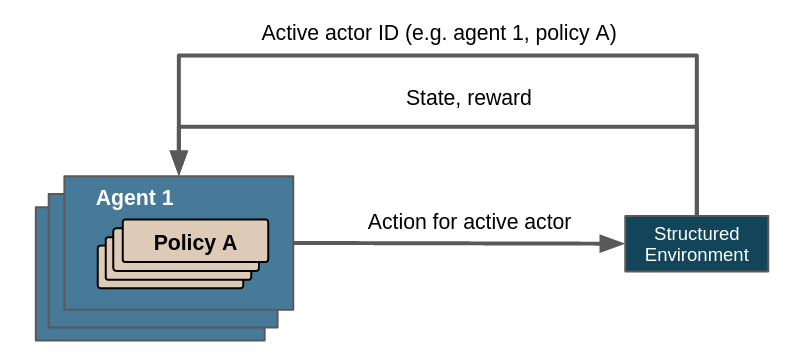
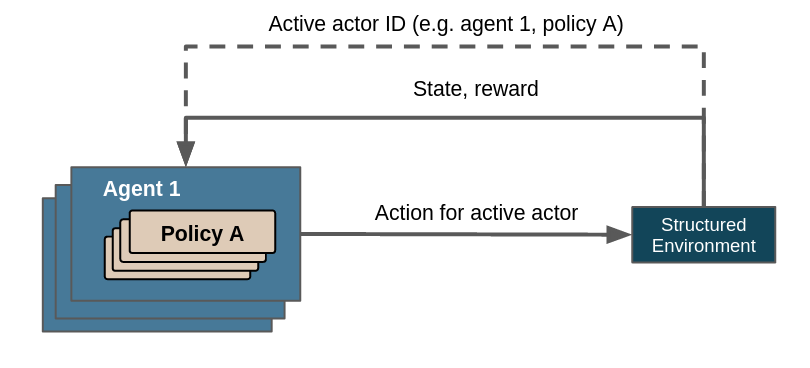
RL-478: Continued with docs on specifications of structured environments.

Changed region(s): [[0.0311, 0.0308, 0.9651, 0.9552]]

diff --git a/docs/source/concepts_and_structure/control_flows_struct_envs.rst b/docs/source/concepts_and_structure/control_flows_struct_envs.rst
@@ -18,9 +18,11 @@ Maze addresses these problems by baking the concept of *actors* into its control
 
 An actor is defined as the combination of a specific policy and a specific agent. They are uniquely identified by the agent ID and the policy key. From a more abstract perspective an actor describes *which task should be done* (via the policy) for *which entity* (the agent). In the case of the vehicle routing problem an agent might correspond to a vehicle and a policy might correspond to a task like "pick an order" or "drive to point X". A :class:`StructuredEnv <maze.core.env.structured_env.StructuredEnv>` has exactly one active actor at any time. There can be an arbitrary number of actors. They can be created and destroyed dynamically by the environment, by respectively specifying their ID or marking them as *done*. Their lifecycles are thus flexible, they don't have to be available through the entirety of the environment's lifecycle.
 
-.. image:: struct_env_control_flow.png
-    :width: 60 %
+.. figure:: struct_env_control_flow.png
+    :width: 75 %
     :align: center
+
+    Overview of control flow with structured environments. Note that the line denoting the communication of the active actor ID is dashed because it is not returned by :meth:`~maze.core.env.maze_env.MazeEnv.step`, but instead queried via :meth:`~maze.core.env.structured_env.StructuredEnv.actor_id`.
 
 **Decoupling actions from steps**
 
@@ -71,9 +73,9 @@ Both approaches aim at increasing the temporal coherence of actions. Multi-stepp
 Where to Go Next
 ----------------
 
-Different specifications of structured environments allow various capabilities not possible with flat environments. We discuss them in a series of articles listed below. Links to examples are included either in those articles or here directly.
+Strutured environments are general enough to give rise to a number of different specifications with different capabilities. We cover those specifications in a series of articles listed below and provide links to implemented examples.
 
-- Flat environments, while instances of :class:`StructuredEnv <maze.core.env.structured_env.StructuredEnv>`, do not utilize its actor mechanism and thus don't warrant an in-depth discussion. Example: :ref:`Stock cutting without multi-stepping.<env_from_scratch-problem>`.
+- :ref:`Flat environments with structured environments<struct_env_flat>`. Example: :ref:`Stock cutting without multi-stepping.<env_from_scratch-problem>`.
 - :ref:`Multi-stepping with structured environments<struct_env_multistep>`. Example: :ref:`Stock cutting with multi-stepping<flat_to_structured>`.
 - :ref:`Multi-agent RL with structure environments<struct_env_multiagent>`. Example: Vehicle routing problem, i.e. the coordination of a fleet of delivery vehicles with different targets [todo].
 - :ref:`Hierarchical RL with structured environments<struct_env_hierarchical>`. Example: Pick and place robots, i.e. a robotic arm picking and placing objects, in the process iterating over a sequence of sub-goals [todo - also: different example prob. better].

diff --git a/docs/source/best_practices_and_tutorials/struct_env_examples/flat/intro.rst b/docs/source/best_practices_and_tutorials/struct_env_examples/flat/intro.rst
@@ -1,0 +1,33 @@
+.. _struct_env_flat:
+
+Flat Environments
+=================
+
+All instantiable environments in Maze are subclasses of :class:`StructuredEnv <maze.core.env.structured_env.StructuredEnv>`. Structured environments are discussed in :ref:`Control Flows with Structured Environments<control_flows_struct_envs>`, which we recommend to read prior to this article. *Flat* environments in our terminology are those utilizing a single actor and a single policy, i. e. a single actor. Within Maze, flat environments are a special case of structured environments.
+
+Let's revisit a classic depiction of a RL control flow first:
+
+.. figure:: ../flat/control_flow_simple.png
+    :width: 75 %
+    :align: center
+
+    Simplified control flow within a flat scenario. The agent selects an action, the environment updates its state and computes the reward. There is no need to distinguish between different policies or agents since we only have one of each. :meth:`~maze.core.env.structured_env.StructuredEnv.actor_id` should always return the same value.
+
+A more general framework however needs to be able to integrate multiple agents and policies into its control flow. Maze does this by implementing actors, which are abstractions introduced in the RL literature to represent the application of one policy on one agent.
+The figure above collapses the concepts of policy, agent and actor into a single entity for the sake of simplicity. The actual control flow in Maze for a flat environment is closer to this:
+
+.. figure:: ../flat/control_flow_complex.png
+    :width: 75 %
+    :align: center
+
+    More accurate control flow for a flat environment in Maze, showing how the actor mechanism integrates agent and policy. Note that the line denoting the communication of the active actor ID is dashed because it is not returned by :meth:`~maze.core.env.maze_env.MazeEnv.step`, but instead queried via :meth:`~maze.core.env.structured_env.StructuredEnv.actor_id`.
+
+A flat environment interacts with a single actor consisting of a single agent and a single policy. The concept of actors is crucial to the flexibility of Maze, since it allows to arbitrarily scale up the number of agents, policies or both - which enables the application of RL to a wider range of use cases and exploit properties of the respective domains more efficiently.
+
+Where to Go Next
+----------------
+
+- :ref:`Multi-stepping applies the actor mechanism to enact several policies in a single step<struct_env_multistep>`.
+- :ref:`Multi-agent RL by using multiple actors with different agents<struct_env_multiagent>`.
+- :ref:`Hierarchical RL by chaining and nesting tasks via policies.<struct_env_hierarchical>`.
+- :ref:`Arbitrary environments with evolutionary strategies<struct_env_evolutionary>` [todo].

diff --git a/docs/source/best_practices_and_tutorials/struct_env_examples/multiagent/intro.rst b/docs/source/best_practices_and_tutorials/struct_env_examples/multiagent/intro.rst
@@ -3,7 +3,18 @@
 Multi-Agent RL with Structured Environments
 ===========================================
 
-The remainder of this tutorial is structured as follows:
+`Multi-agent reinforcment learning (MARL) <https://arxiv.org/abs/1911.10635>`_ describes a setup in which more than several collaborating or competing agents act as individual entitites in an environment. This introduces the additional complexity of emergent effects between those agents. Some problems require to or at least benefit from deviating from a single-agent formulation, such as the `vehicle routing problem <https://en.wikipedia.org/wiki/Vehicle_routing_problem>`_, `(video) games like Starcraft <https://www.nature.com/articles/s41586-019-1724-z>`_, `traffic coordination<http://www.wiomax.com/team/xie/paper/ICAPS12.pdf>`_, `power systems and smart grids<https://ieeexplore.ieee.org/abstract/document/7855760>`_ and many others.
+
+Maze supports multi-agent learning out of the box. In order to make a :class:`StructuredEnv <maze.core.env.structured_env.StructuredEnv>` compatible with such a setup, it needs to keep track of the activities of each individual agent. While the order in which actions for the individual agents are enacted are left to the environment, it is required that at any point in time there is exactly one active actor (see :ref:`here<control_flows_struct_envs>` for more information on the distinction between actor and agent). It is easily possible, but not necessary, to include multiple policies in a multi-agent scenario.
+
+Information on the active actor and therefore agent is accessed via :meth:`~maze.core.env.structured_env.StructuredEnv.actor_id`. As long as the environment implements this method and the internal state of each agent correctly, there are no further prerequisites to be fulfilled for a multi-agent training.
+
+
+
+    Control flow within a multi-agent scenario. Note that we assume a single policy here. In this setup :meth:`~maze.core.env.structured_env.StructuredEnv.actor_id` should return a tuple of the current actor ID and a constant policy key.
+
+You'll notice that the actor entity coordinating policies and agents to compute an appropriate action.
+In comparing with the flat environment you'll notice that this flow differs in (a) that there are multiple agents, (b) that the agent is chosen according to the active actor ID specified by the environment and (c) that the environment's step function has to do keep track on the active agent/actor. The underlying pathways however are identical - within Maze' actor mechanism flat environments are merely a particular specification amongst many.
 
 .. toctree::
    :maxdepth: 1

diff --git a/docs/source/index.rst b/docs/source/index.rst
@@ -177,6 +177,7 @@ but most importantly also provide code snippets and minimum working examples to 
    best_practices_and_tutorials/integrating_gym_environment.rst
    best_practices_and_tutorials/struct_env_tutorial.rst
    best_practices_and_tutorials/maze_and_other_frameworks.rst
+   best_practices_and_tutorials/struct_env_examples/flat/intro.rst
    best_practices_and_tutorials/struct_env_examples/multistep/intro.rst
    best_practices_and_tutorials/struct_env_examples/multiagent/intro.rst
    best_practices_and_tutorials/struct_env_examples/hierarchical/intro.rst
